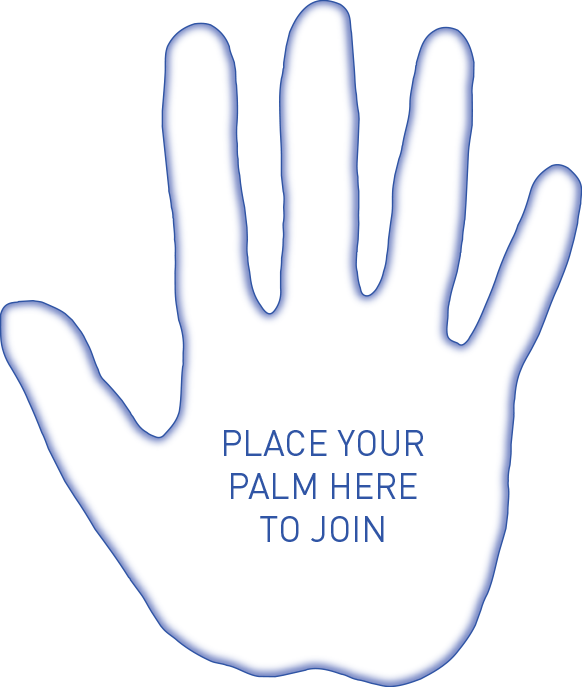
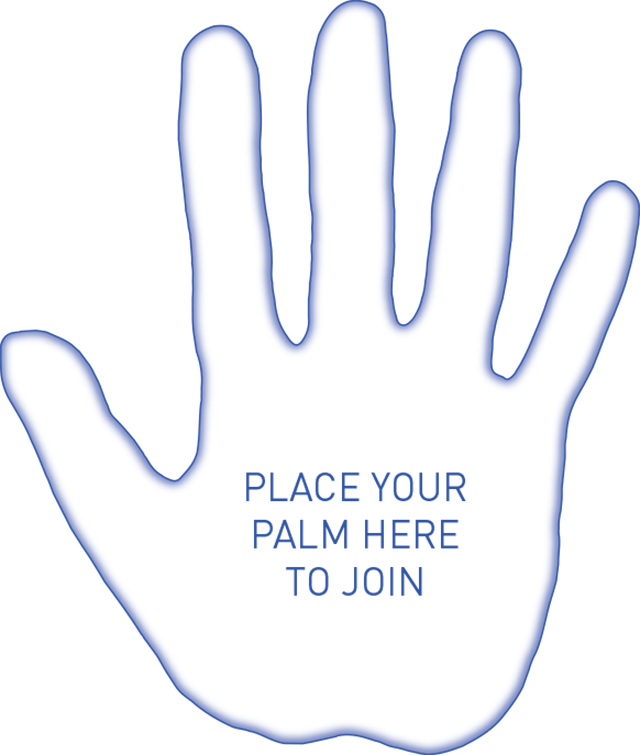
wip

diff --git a/src/index.css b/src/index.css
@@ -20,6 +20,7 @@ body {
   /* max-height: 977px; */
   max-height: 1080px;
   height: 100vh;
+  height: calc(var(--vh, 1vh) * 100);
   /* border: 1px solid ; */
   /* background: red; */
   overflow: hidden;
@@ -149,8 +150,8 @@ header {
   bottom: 1rem;
 }
 .handArea {
-  width: 582px;
-  height: 687px;
+  width: 640px;
+  height: 755px;
   position: relative;
 }
 .handArea.disable {
@@ -230,7 +231,7 @@ header {
   width: 200px;
 }
 .totalCount {
-  position: absolute;
+  /* position: absolute;
   top: 465px;
   left: 255px;
   z-index: 3;
@@ -243,5 +244,19 @@ header {
   text-align: center;
   display: flex;
   align-items: center;
-  justify-content: center;
+  justify-content: center; */
+  position: absolute;
+    top: 513px;
+    left: 278px;
+    z-index: 3;
+    color: #fff;
+    font-weight: bold;
+    font-size: 1.85rem;
+    width: 80px;
+    height: 42px;
+    background: transparent;
+    text-align: center;
+    display: flex;
+    align-items: center;
+    justify-content: center;
 }

diff --git a/src/Scan.js b/src/Scan.js
@@ -22,12 +22,12 @@ const Scan = () => {
   let scanRef = useRef(null);
   let handAreaRef = useRef(null);
   const handleTouchStart = (e) => {
-    if (e.targetTouches.length > 4) {
+    if (e.targetTouches.length > 0) {
       handAreaRef.current.classList.add("disable");
       scanRef.current.classList.add("animate");
       scanAudio.play();
       axios
-        .post("insert.php", user)
+        .post("https://oasisengagement.in/pledge/insert.php", user)
         .then((response) => {
           console.log(response.data.length);
           if (response.data.length) {
